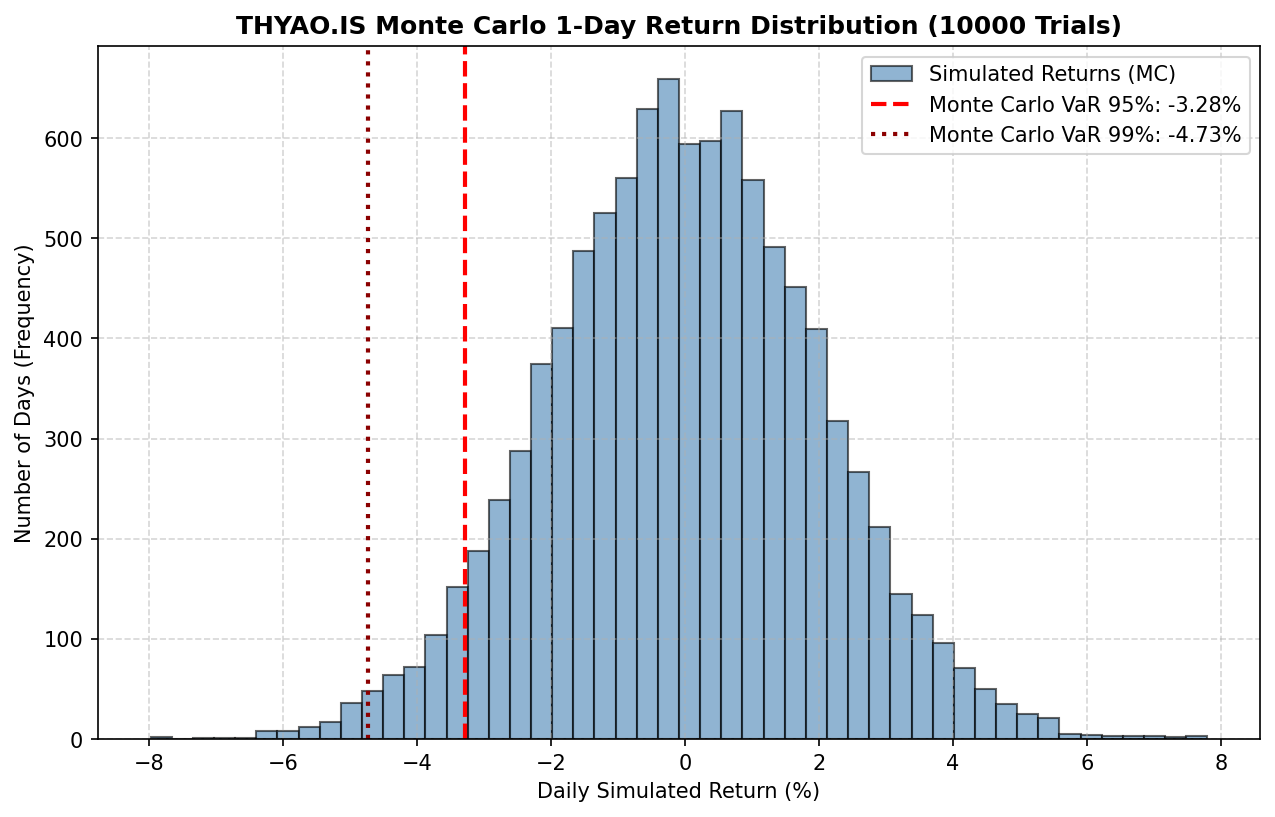
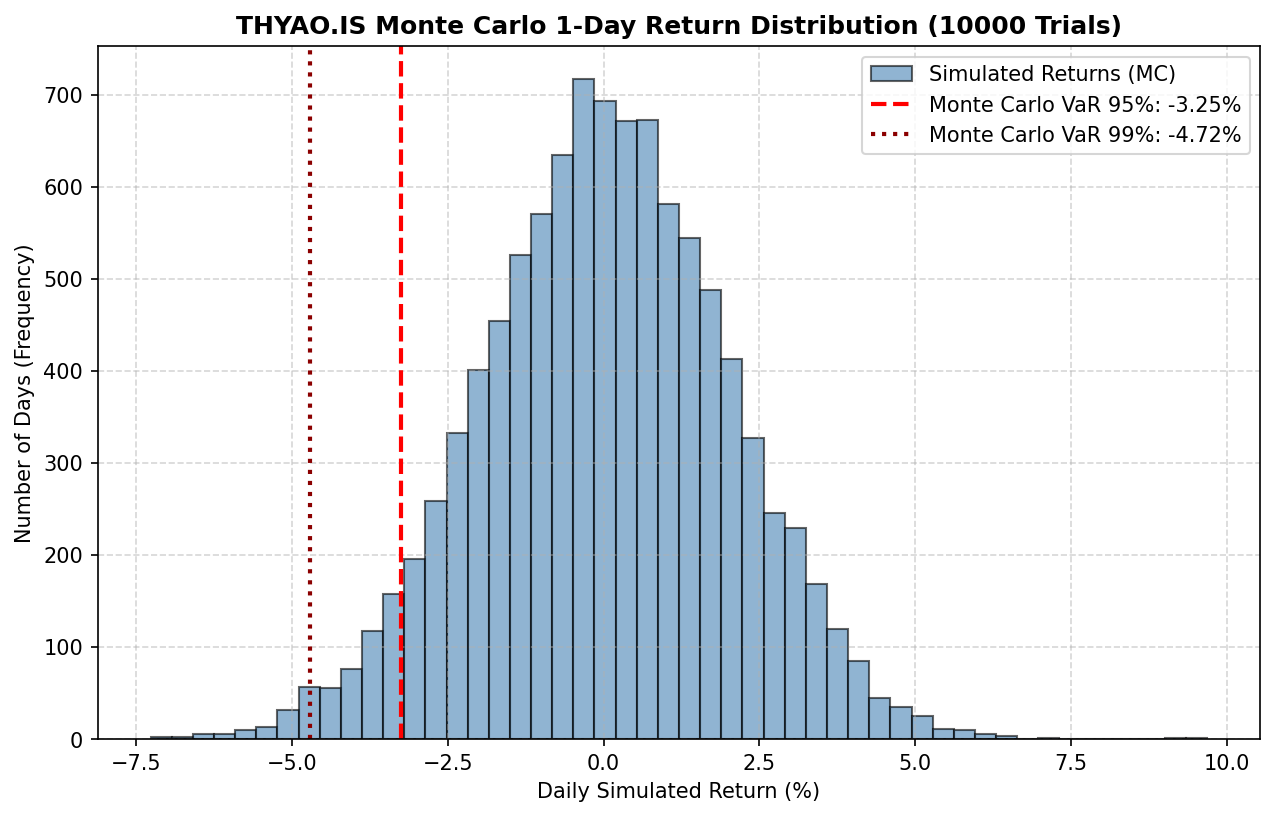
Translate README and CLI summary panel headers to English

diff --git a/summary_panel.py b/summary_panel.py
@@ -151,7 +151,7 @@ def show_single_panel(ticker, report_path):
         
     panel = Panel(
         Align.center(table),
-        title=f"[bold green] VARTEX - [{ticker}]\nRisk Analiz Özeti[/]",
+        title=f"[bold green] VARTEX - [{ticker}]\nRisk Analysis Summary[/]",
         subtitle=f"[bold blue]Report Location: {os.path.abspath(report_path)}[/]",
         border_style="green",
         expand=False

diff --git a/README.md b/README.md
@@ -1,23 +1,23 @@
-# Vartex - Çoklu Varlık Risk Analiz ve Portföy Yönetim Sistemi
+# Vartex - Multi-Asset Risk Analysis and Portfolio Management System
 
-**Vartex**, hisse senetlerinin risk metriklerini deterministik yöntemler ve olasılıksal simülasyonlar kullanarak analiz eden, PyPI güvenlik denetimlerine sahip, esnek portföy çeşitlendirmesi sunan modüler bir risk yönetim sistemidir.
-
----
-
-## 🚀 Temel Özellikler
-
-1. **Güvenlik & Bağımlılık Kontrolü:** Typosquatting ve halüsinasyon kütüphane risklerine karşı `requirements.txt` dosyasını PyPI JSON API'si üzerinden otomatik doğrular.
-2. **Deterministik Risk Metrikleri:** Logaritmik getiriler üzerinden Volatilite, Sharpe Oranı, Maksimum Tarihsel Kayıp (Max DD) ve Tarihsel VaR (%95/%99) hesaplar.
-3. **Kritik Risk Geçitleri (Human-in-the-Loop):** Belirlenen risk eşikleri aşıldığında onay mekanizmasını devreye alır.
-4. **Olasılıksal Projeksiyon:** Geometrik Brownian Motion (GBM) modeliyle 10,000 denemeli Monte Carlo simülasyonları gerçekleştirir.
-5. **Çoklu Varlık Portföy Modu (--portfolio):** N adet varlık arasındaki korelasyon matrisini hesaplar, eşit ağırlıklı portföy riski ile tekil riskleri karşılaştırıp **dolar bazında çeşitlendirme faydasını (risk kazancını)** sunar.
-6. **Zengin Terminal Arayüzü (Rich):** CLI ekranında renk kodlu özet paneller, korelasyon analizleri ve tablolar basar.
+**Vartex** is a modular risk management system that analyzes stock risk metrics using deterministic methods and probabilistic simulations, performs PyPI security audits, and provides flexible portfolio diversification analysis.
 
 ---
 
-## 🛠️ Kurulum ve Çalıştırma
+## 🚀 Key Features
 
-### 1. Sanal Ortamı Aktif Edin
+1. **Security & Dependency Check:** Automatically verifies `requirements.txt` against the PyPI JSON API to protect against typosquatting and hallucinated package risks.
+2. **Deterministic Risk Metrics:** Calculates Volatility, Sharpe Ratio, Maximum Historical Drawdown (Max DD), and Historical VaR (95%/99%) based on logarithmic returns.
+3. **Critical Risk Gates (Human-in-the-Loop):** Triggers an approval mechanism when predefined risk thresholds are exceeded.
+4. **Probabilistic Projection:** Performs Monte Carlo simulations with 10,000 trials using the Geometric Brownian Motion (GBM) model.
+5. **Multi-Asset Portfolio Mode (`--portfolio`):** Computes the correlation matrix among N assets, compares equally-weighted portfolio risk against individual risks, and calculates the **diversification benefit (risk savings) in USD**.
+6. **Rich Terminal UI (Rich):** Renders color-coded summary panels, correlation analyses, and tables in the terminal.
+
+---
+
+## 🛠️ Setup and Execution
+
+### 1. Activate the Virtual Environment
 * **Windows PowerShell:**
   ```powershell
   .\venv\Scripts\Activate.ps1
@@ -27,15 +27,15 @@
   venv\Scripts\activate.bat
   ```
 
-### 2. Tek Hisse Analiz Modu
+### 2. Single Stock Analysis Mode
 ```bash
 python main.py THYAO.IS
 ```
 
-### 3. Çoklu Varlık Portföy Risk Karşılaştırma Modu
+### 3. Multi-Asset Portfolio Risk Comparison Mode
 ```bash
 python main.py --portfolio THYAO.IS AAPL GARAN.IS MSFT GOOGL --amount 10000 --no-interactive
 ```
 
 ---
-*Bu sistem tamamen Python numpy, pandas, matplotlib ve rich kütüphaneleriyle yazılmış olup, yatırım tavsiyesi içermez.*
+*This system is written entirely using Python numpy, pandas, matplotlib, and rich libraries, and does not contain investment advice.*

diff --git a/test_report.md b/test_report.md
@@ -3,7 +3,7 @@
 This report contains the results of the pytest integration tests run on the actual codebase representing the Gherkin behavioral scenarios (`risk_agent.feature`).
 
 ## Test Summary
-- **Report Date:** 2026-06-20 00:52:41
+- **Report Date:** 2026-06-20 01:11:43
 - **Total Tested Scenarios:** 5
 - **Passed Tests:** 5
 - **Failed Tests:** 0
@@ -48,6 +48,6 @@ C:\Users\musta\AppData\Local\Programs\Python\Python312\Lib\site-packages\_pytest
     session.config.cache.set(STEPWISE_CACHE_DIR, [])
 
 -- Docs: https://docs.pytest.org/en/stable/how-to/capture-warnings.html
-================== 5 passed, 2 warnings in 107.35s (0:01:47) ==================
+================== 5 passed, 2 warnings in 111.32s (0:01:51) ==================
 
 ```

diff --git a/security_report.md b/security_report.md
@@ -3,7 +3,7 @@
 This report verifies the presence, last update dates, and security status of the libraries in the project's `requirements.txt` file on PyPI.
 
 ## Summary Findings
-- **Audit Date:** 2026-06-20 00:56:44
+- **Audit Date:** 2026-06-20 01:11:38
 - **Total Audited Packages:** 35
 - **Number of Packages Not Found (Slopsquatting Risk):** 0
 - **Number of Vulnerable Packages:** 0